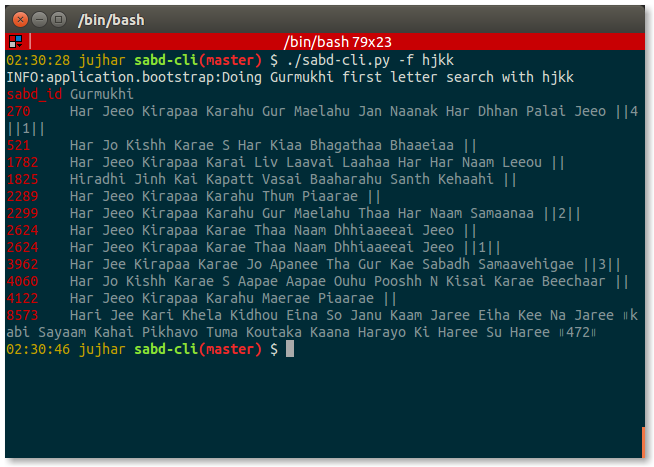
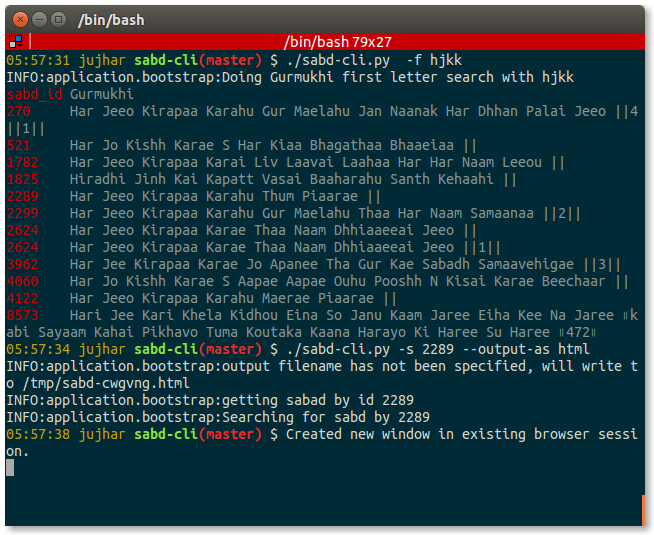
updating docs

Changed region(s): [[0.0, 0.0, 1.0, 0.8994], [0.0, 0.9593, 0.9786, 0.9893], [0.9174, 0.7794, 0.9786, 0.8394]]

diff --git a/sabd-cli.py b/sabd-cli.py
@@ -18,7 +18,6 @@ Options:
   -f <query>, --first-letter-search <query>     To do a first letter search
   -s <sabad_id>, --sabd <sabad_id>              To bring a specific sabd back
   -o, --output-as txt|html|md                   Output sabd as txt|html|md
-  --file-name <your_filename>                   Where do you want to output to
   -h, --help                                    Show this screen
 '''
 
@@ -42,14 +41,9 @@ def main():
         bootstrap.logger.info("we don't support that file format yet")
         quit()
 
-    if args['--output-as'] and not args['--file-name']:
+    if args['--output-as']:
         output_file = tempfile.NamedTemporaryFile('w+b', -1, "." + args['--output-as'].strip(), 'sabd-', None, False)
         bootstrap.logger.info('output filename has not been specified, will write to ' + str(output_file.name))
-    else:
-        if args['--file-name']:
-            output_file = args['--file-name'].strip()
-        else:
-            output_file = None
 
     model_gurbani = IsgGurbaniDb(bootstrap.config)
     if args['--first-letter-search']:

diff --git a/README.md b/README.md
@@ -17,10 +17,10 @@ HTML output uses [Reveal.js](http://lab.hakim.se/reveal-js/) which is way nicer 
 
   `sabd-cli.py -s 2289 -o html` to bring all lines of "har jio kirpa karo" and render as html to a generated filename
 
-  `sabd-cli.py -s 2289 -o html --file-name=/tmp/myfile.html` to bring all lines of "har jio kirpa karo" and render as html to a filename of your choice
-
   `sabd-cli.py (-h | --help)`
 
+## Database
+Currently we're using the [Search Gurbani](http://searchgurbani.com/sgdv/isg) database, might add other database support later
 
 ## TODO
 
@@ -52,6 +52,7 @@ HTML output uses [Reveal.js](http://lab.hakim.se/reveal-js/) which is way nicer 
 run `sudo pip install -r requirements.txt` to install all deps required for this project
 
 ## Tests
+Using [nose](https://nose.readthedocs.org/en/latest/) as a test framework (see sabd id 51:6).
 Run `nosetests` in the project root to run the unit tests
 
 ## License
